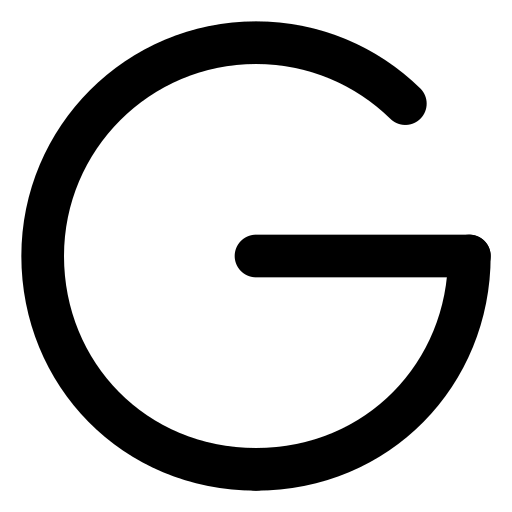
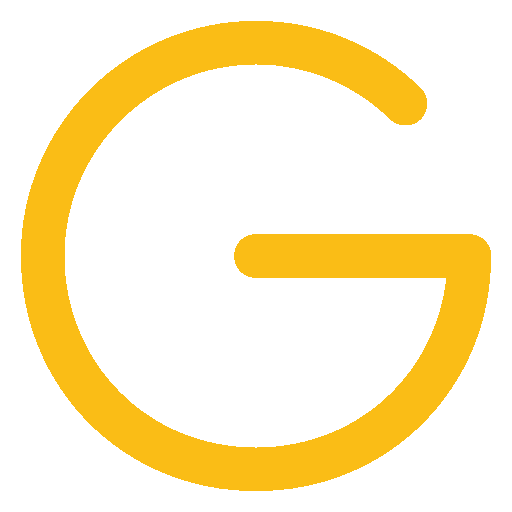
finished dark theme

Changed region(s): [[0.0312, 0.0312, 0.9688, 0.9688]]

diff --git a/src/styles/nav.scss b/src/styles/nav.scss
@@ -16,7 +16,6 @@
         width: 50px;
         height: 50px;
         margin: 0 0 0 20px;
-        filter: invert(100%);
     }
     
     ul {
@@ -25,6 +24,14 @@
 
         li {
             margin: 0 40px 0 0;
+
+            a {
+                transition: .25s;
+                
+                &:hover {
+                    color: $yellow;
+                }
+            }
         }
     }
 }

diff --git a/src/styles/email.scss b/src/styles/email.scss
@@ -34,5 +34,10 @@
         font-size: 14px;
         letter-spacing: .1em;
         writing-mode: vertical-rl;
+        transition: .25s;
+
+        &:hover {
+            color: $yellow;
+        }
     }
 }

diff --git a/src/styles/footer.scss b/src/styles/footer.scss
@@ -7,4 +7,8 @@
     justify-content: center;
     width: 100%;
     height: 80px;
+
+    a {
+        color: $gray;
+    }
 }
